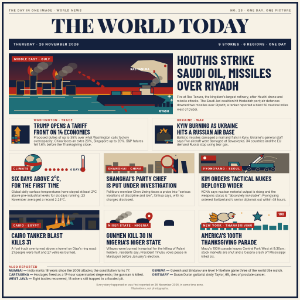
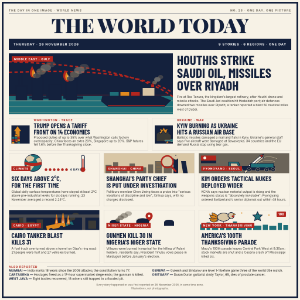
Simplify Gulf hero into a bold editorial poster
- Remove the map, Riyadh skyline and all hero artwork text.
- Reduce the scene to glowing sky, four-tower refinery, teal sea, tanker and two missile arcs.

Changed region(s): [[0.03, 0.18, 0.6, 0.39]]

diff --git a/src/entry.html b/src/entry.html
@@ -60,54 +60,39 @@ svg text{font-family:Inter,Arial,sans-serif}
 
   <section class="hero" aria-label="Lead story">
     <div class="hero-art">
-      <svg viewBox="0 0 560 208" role="img" aria-label="Illustration of a refinery and tanker in the Gulf under missile attack">
+      <svg viewBox="0 0 560 208" role="img" aria-label="Bold Gulf refinery and tanker poster beneath two missile arcs">
         <defs>
-          <linearGradient id="gulfSky" x1="0" y1="0" x2="0" y2="1"><stop offset="0" stop-color="#14213D"/><stop offset="1" stop-color="#B3261E"/></linearGradient>
+          <linearGradient id="gulfSky" x1="0" y1="0" x2="0" y2="1"><stop offset="0" stop-color="#14213D"/><stop offset=".66" stop-color="#14213D"/><stop offset=".84" stop-color="#B3261E"/><stop offset="1" stop-color="#E08A1E"/></linearGradient>
           <marker id="missileArrow" viewBox="0 0 10 10" refX="8" refY="5" markerWidth="10" markerHeight="10" orient="auto" markerUnits="userSpaceOnUse"><path d="M0 0 10 5 0 10Z" fill="#B3261E"/></marker>
         </defs>
         <rect width="560" height="208" fill="url(#gulfSky)"/>
-        <rect y="92" width="560" height="24" fill="#14213D"/>
-        <rect y="116" width="560" height="22" fill="#B3261E"/>
-        <rect y="138" width="560" height="5" fill="#E08A1E"/>
-        <rect y="143" width="560" height="65" fill="#1F6F78"/>
-        <g stroke="#D8C6A5" stroke-width="1.5" opacity=".8"><path d="M0 151h72m28 0h92m28 0h62"/><path d="M282 169h84m32 0h74"/><path d="M18 195h118m32 0h68m34 0h94"/></g>
-        <g fill="none" stroke="#B3261E" stroke-width="5" stroke-dasharray="11 8" marker-end="url(#missileArrow)"><path d="M402 199C365 143 321 105 267 79"/><path d="M390 187C350 132 302 101 238 63"/></g>
-        <g transform="translate(410 14)">
-          <path d="M4 32 30 10 82 8 132 22V88H108L94 70 70 52 42 47Z" fill="#D8C6A5" stroke="#14213D" stroke-width="1.5"/>
-          <path d="M132 88h-24c-2-18-10-31-22-40h-6c14 11 23 25 25 40Z" fill="#1F6F78"/>
-          <path d="M36 88h28v6H36Z" fill="#1F6F78"/>
-          <g fill="#B3261E"><circle cx="86" cy="48" r="4"/><circle cx="124" cy="29" r="4"/></g>
-          <path d="M74 48h12" stroke="#F7F2E6" stroke-width="1.2"/>
-          <text x="5" y="44" fill="white" font-size="10" font-weight="700">RAS TANURA</text>
-        </g>
-        <g fill="#14213D" stroke="#E08A1E" stroke-width="1.4">
-          <rect x="26" y="94" width="27" height="48"/><rect x="72" y="72" width="24" height="70"/><rect x="114" y="102" width="31" height="40"/><rect x="158" y="85" width="25" height="57"/><rect x="195" y="111" width="34" height="31"/>
-        </g>
-        <g fill="none" stroke="#D8C6A5" stroke-width="3"><path d="M39 124h54V99h55m-30 25h63V96h29"/><path d="M49 143h155"/></g>
-        <g>
-          <path d="M69 73c-9-11-5-23 1-33 3 12 12 18 14 28 2 9-7 12-15 5Z" fill="#B3261E"/>
-          <path d="M75 72c-5-9-2-17 1-24 3 8 8 13 8 20 0 7-5 8-9 4Z" fill="#E08A1E"/>
-          <path d="M79 70c-2-5 0-10 2-14 2 5 4 8 3 12-1 3-3 4-5 2Z" fill="#F4C77B"/>
-          <path d="M155 86c-10-12-6-25 1-35 3 13 13 19 15 30 2 10-7 13-16 5Z" fill="#B3261E"/>
-          <path d="M161 85c-6-9-3-18 1-26 3 9 9 14 9 22 0 7-5 8-10 4Z" fill="#E08A1E"/>
-          <path d="M165 83c-2-5 0-11 2-15 2 6 5 9 4 13-1 3-4 4-6 2Z" fill="#F4C77B"/>
+        <rect y="146" width="560" height="62" fill="#1F6F78"/>
+        <g stroke="#D8C6A5" stroke-width="1.5" opacity=".65"><path d="M0 162H560"/><path d="M0 182H560"/><path d="M0 201H560"/></g>
+        <g fill="none" stroke="#B3261E" stroke-width="5" stroke-dasharray="11 8" marker-end="url(#missileArrow)"><path d="M560 148C470 82 302 38-10 28"/><path d="M552 130C452 72 278 52-16 66"/></g>
+        <g fill="#14213D" stroke="#14213D">
+          <path d="M48 131H105V105H166V130H216M70 151H132V135H190V151H254" fill="none" stroke-width="8"/>
+          <rect x="24" y="112" width="38" height="48"/><rect x="80" y="80" width="36" height="80"/><rect x="136" y="106" width="44" height="54"/><rect x="194" y="90" width="38" height="70"/><rect x="34" y="72" width="10" height="40"/>
         </g>
         <g>
-          <ellipse cx="88" cy="68" rx="13" ry="9" fill="#4A4A4F" opacity=".92"/><ellipse cx="101" cy="55" rx="16" ry="11" fill="#6B6459" opacity=".78"/><ellipse cx="116" cy="43" rx="19" ry="13" fill="#8A8578" opacity=".62"/><ellipse cx="132" cy="31" rx="17" ry="12" fill="#6B6459" opacity=".46"/>
-          <ellipse cx="171" cy="81" rx="13" ry="9" fill="#4A4A4F" opacity=".92"/><ellipse cx="185" cy="68" rx="16" ry="11" fill="#6B6459" opacity=".78"/><ellipse cx="200" cy="56" rx="19" ry="13" fill="#8A8578" opacity=".62"/><ellipse cx="217" cy="44" rx="17" ry="12" fill="#6B6459" opacity=".46"/>
+          <path d="M77 81C68 70 72 58 80 42c2 12 12 20 13 32 1 8-7 11-16 7Z" fill="#B3261E"/>
+          <path d="M82 80c-6-9-3-18 1-27 3 9 9 15 9 24 0 7-5 9-10 3Z" fill="#E08A1E"/>
+          <path d="M86 78c-2-5 0-10 2-15 2 5 5 9 4 14-1 3-4 4-6 1Z" fill="#F4C77B"/>
+          <path d="M191 91c-9-11-5-23 1-35 3 13 13 21 14 33 1 9-7 12-15 2Z" fill="#B3261E"/>
+          <path d="M196 90c-6-9-3-18 1-26 3 9 9 14 9 22 0 7-5 8-10 4Z" fill="#E08A1E"/>
+          <path d="M200 88c-2-5 0-11 2-15 2 6 5 9 4 13-1 3-4 4-6 2Z" fill="#F4C77B"/>
+        </g>
+        <g>
+          <ellipse cx="96" cy="76" rx="13" ry="9" fill="#4A4A4F" opacity=".92"/><ellipse cx="110" cy="62" rx="16" ry="11" fill="#6B6459" opacity=".78"/><ellipse cx="126" cy="49" rx="18" ry="12" fill="#8A8578" opacity=".62"/><ellipse cx="143" cy="37" rx="16" ry="11" fill="#6B6459" opacity=".46"/>
+          <ellipse cx="211" cy="86" rx="13" ry="9" fill="#4A4A4F" opacity=".92"/><ellipse cx="225" cy="72" rx="16" ry="11" fill="#6B6459" opacity=".78"/><ellipse cx="241" cy="58" rx="18" ry="12" fill="#8A8578" opacity=".62"/><ellipse cx="257" cy="47" rx="16" ry="11" fill="#6B6459" opacity=".46"/>
         </g>
         <g stroke="#14213D" stroke-width="2" stroke-linejoin="round">
-          <path d="M306 143h194l34 15-17 21H327l-27-19Z" fill="#14213D"/>
-          <path d="M327 176.5H517" fill="none" stroke="#B3261E" stroke-width="3"/>
-          <path d="M446 119h48v24h-48Z" fill="#D8C6A5"/>
-          <path d="M454 108h31v11h-31Z" fill="#6B6459"/>
-          <rect x="351" y="129" width="31" height="14" fill="#1F6F78"/><rect x="386" y="129" width="31" height="14" fill="#E08A1E"/><rect x="421" y="129" width="31" height="14" fill="#B3261E"/>
-          <path d="M484 118h10v18h-10Z" fill="#B3261E"/>
+          <path d="M320 146h196l36 15-20 20H338l-22-18Z" fill="#14213D"/>
+          <path d="M338 178H532" fill="none" stroke="#B3261E" stroke-width="3"/>
+          <path d="M456 117h42v29h-42Z" fill="#D8C6A5"/>
+          <path d="M485 105h12v12h-12Z" fill="#B3261E"/>
+          <rect x="344" y="131" width="32" height="15" fill="#1F6F78"/><rect x="380" y="131" width="32" height="15" fill="#E08A1E"/><rect x="416" y="131" width="32" height="15" fill="#B3261E"/>
         </g>
-        <g><ellipse cx="493" cy="105" rx="10" ry="8" fill="#6B6459" opacity=".9"/><ellipse cx="503" cy="94" rx="13" ry="10" fill="#8A8578" opacity=".72"/><ellipse cx="514" cy="85" rx="11" ry="8" fill="#6B6459" opacity=".5"/></g>
-        <g fill="#14213D"><rect x="498" y="167" width="10" height="16"/><rect x="511" y="161" width="12" height="22"/><rect x="526" y="170" width="9" height="13"/><rect x="538" y="165" width="11" height="19"/><rect x="552" y="172" width="8" height="11"/><path d="M511 161c0-8 12-8 12 0Z"/></g>
-        <g fill="none" stroke="#F7F2E6" stroke-width="1.4"><path d="M548 141v12m-6-6h12m-9-3 6 6m0-6-6 6"/><path d="M556 155v10m-5-5h10m-7-3 4 4m0-4-4 4"/></g>
-        <text x="512" y="201" fill="white" font-size="9" font-weight="700">RIYADH</text>
+        <g><ellipse cx="498" cy="99" rx="8" ry="6" fill="#6B6459" opacity=".9"/><ellipse cx="507" cy="89" rx="11" ry="8" fill="#8A8578" opacity=".72"/><ellipse cx="518" cy="81" rx="9" ry="7" fill="#6B6459" opacity=".5"/></g>
       </svg>
       <div class="chip">MIDDLE EAST · GULF</div>
     </div>
